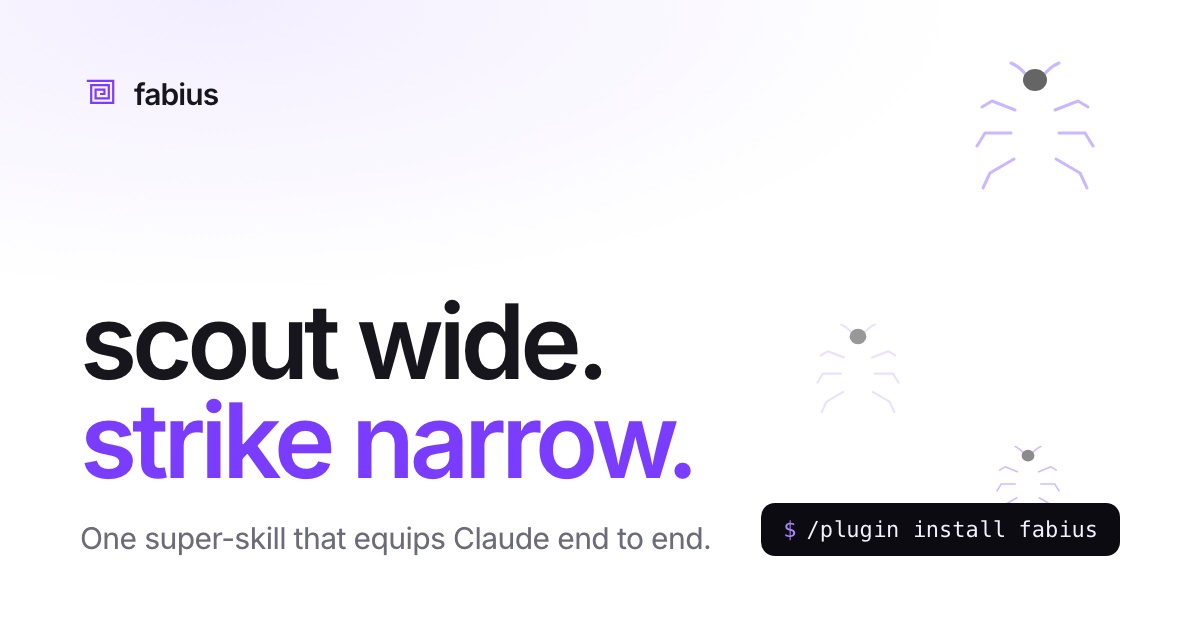
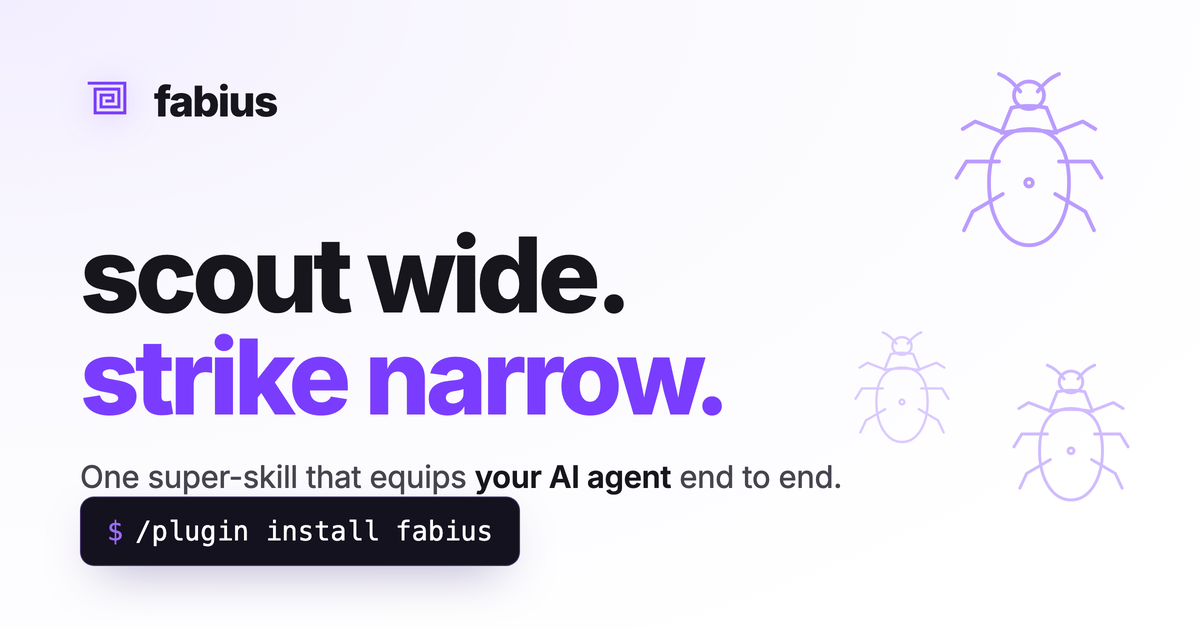
Full-potential polish (vetted audit): defer swarm build, gate video-glow blur to playing, 44px copy targets, FAQ hover + 09 numbering, persistent mobile Install CTA, active-nav background parity, model-agnostic og.png, GSC placeholder

diff --git a/main.js b/main.js
@@ -173,9 +173,7 @@
     { lane: 34, size: 16, dur: 2.7, delay: -4, op: .18, dir: -1, bob: .4 },
     { lane: 80, size: 14, dur: 2.3, delay: -1, op: .16, dir: 1,  bob: .36 },
   ];
-  buildWalkers($('#swarm'), small ? heroWalk.filter((_, i) => i < 9) : heroWalk);
-  // dark "core" band — same two-tier idea, brighter on black
-  buildWalkers($('#coreWalk'), [
+  const coreWalk = [
     { lane: 20, size: 84, dur: 28, delay: -6, op: .82, dir: 1,  bob: 1.8, leg: .72, color: '#b491ff' },
     { lane: 68, size: 52, dur: 21, delay: -11, op: .66, dir: -1, bob: 1.5, leg: .6,  color: '#8a5cff' },
     { lane: 44, size: 20, dur: 3.6, delay: -2, op: .6,  dir: 1,  bob: .46, color: '#c9b6ff' },
@@ -185,7 +183,14 @@
     { lane: 78, size: 18, dur: 3.2, delay: -2, op: .5,  dir: 1,  bob: .44, color: '#9b6bff' },
     { lane: 14, size: 16, dur: 2.6, delay: -1, op: .52, dir: -1, bob: .4,  color: '#b491ff' },
     { lane: 50, size: 14, dur: 2.3, delay: -3, op: .48, dir: 1,  bob: .36, color: '#c9b6ff' },
-  ].filter((_, i) => small ? i < 5 : true));
+  ].filter((_, i) => small ? i < 5 : true);
+  // defer the decorative swarm DOM build off the critical path → smoother first paint / input
+  const buildSwarms = () => {
+    buildWalkers($('#swarm'), small ? heroWalk.filter((_, i) => i < 9) : heroWalk);
+    buildWalkers($('#coreWalk'), coreWalk);
+  };
+  if ('requestIdleCallback' in window) requestIdleCallback(buildSwarms, { timeout: 700 });
+  else setTimeout(buildSwarms, 150);
 
   /* ── active section in nav ──────────────────────────────── */
   const links = $$('.nav-links a');

diff --git a/styles.css b/styles.css
@@ -107,7 +107,7 @@ img{display:block;max-width:100%}
 .nav-links{display:flex;gap:4px;margin-inline:auto}
 .nav-links a{color:var(--ink-2);font-size:14.5px;font-weight:480;padding:10px 12px;border-radius:9px;transition:color .15s,background .15s}
 .nav-links a:hover{color:var(--ink);background:var(--canvas-alt)}
-.nav-links a[aria-current]{color:var(--primary-ink);font-weight:600}
+.nav-links a[aria-current]{color:var(--primary-ink);font-weight:600;background:var(--tint)}
 .nav-cta{display:flex;align-items:center;gap:10px}
 .nav-cta .btn{padding:9px 17px;font-size:14px}
 .nav-toggle{display:none;width:42px;height:42px;border:1px solid var(--hairline-2);border-radius:11px;background:#fff;cursor:pointer;flex-direction:column;align-items:center;justify-content:center;gap:5px}
@@ -138,7 +138,7 @@ img{display:block;max-width:100%}
 .hero-cmd code{color:#f3f1fb}
 .hero-cmd .muted{color:#8b86a8;margin-right:4px}
 .copy{font-family:var(--sans);font-size:13px;font-weight:540;color:#fff;background:rgba(255,255,255,.12);
-  border:1px solid rgba(255,255,255,.16);border-radius:9px;padding:9px 14px;cursor:pointer;transition:background .15s,transform .15s var(--ease)}
+  border:1px solid rgba(255,255,255,.16);border-radius:9px;padding:13px 16px;cursor:pointer;transition:background .15s,transform .15s var(--ease)}
 .copy:hover{background:rgba(255,255,255,.2)}
 .copy:active{transform:scale(.95)}
 .copy.done{background:var(--primary);border-color:var(--primary)}
@@ -185,7 +185,7 @@ img{display:block;max-width:100%}
 .demo-head{max-width:720px;margin-inline:auto;margin-bottom:44px;text-align:center}
 .demo-emblem{width:56px;height:56px;color:var(--primary);display:block;margin:0 auto 24px}
 .demo-frame{position:relative;max-width:980px;margin-inline:auto;aspect-ratio:16/9;border-radius:var(--r-l);overflow:hidden;background:var(--canvas-ink);border:1px solid var(--hairline);box-shadow:var(--shadow);isolation:isolate}
-.demo-frame::before{content:"";position:absolute;inset:-3px;z-index:-1;background:radial-gradient(58% 58% at 50% 38%,rgba(123,61,255,.30),transparent 70%);filter:blur(40px)}
+.demo-frame.playing::before{content:"";position:absolute;inset:-3px;z-index:-1;background:radial-gradient(58% 58% at 50% 38%,rgba(123,61,255,.30),transparent 70%);filter:blur(40px)}
 .demo-video{width:100%;height:100%;object-fit:cover;display:block;cursor:pointer}
 .demo-toggle{position:absolute;left:50%;top:50%;transform:translate(-50%,-50%);width:84px;height:84px;border-radius:50%;border:1px solid rgba(255,255,255,.30);background:rgba(18,14,28,.46);backdrop-filter:blur(8px);-webkit-backdrop-filter:blur(8px);color:#fff;display:grid;place-items:center;cursor:pointer;opacity:0;pointer-events:none;transition:opacity .3s var(--ease),background .2s var(--ease)}
 .demo-frame.show-controls .demo-toggle{opacity:1;pointer-events:auto}
@@ -448,6 +448,7 @@ img{display:block;max-width:100%}
 .faq-item[open]{border-color:var(--hairline-2);background:var(--canvas-alt)}
 .faq-item summary{cursor:pointer;list-style:none;position:relative;padding:20px 56px 20px 24px;font-size:clamp(16px,1.9vw,18px);font-weight:560;color:var(--ink)}
 .faq-item summary::-webkit-details-marker{display:none}
+.faq-item summary:hover{background:var(--canvas-alt);color:var(--primary-ink)}
 .faq-item summary::after{content:"+";position:absolute;right:24px;top:50%;transform:translateY(-50%);font-size:24px;font-weight:400;line-height:1;color:var(--primary)}
 .faq-item[open] summary::after{content:"−"}
 .faq-item summary:focus-visible{outline:2px solid var(--primary);outline-offset:-2px;border-radius:var(--r-m)}
@@ -495,8 +496,10 @@ img{display:block;max-width:100%}
 /* ── responsive ──────────────────────────────────────────── */
 @media (max-width:900px){
   .nav-links{display:none}
-  .nav-cta{display:none}
-  .nav-toggle{display:flex;margin-inline-start:auto}
+  .nav-cta{display:flex;margin-inline-start:auto;gap:8px}
+  .nav-cta .btn.ghost{display:none}
+  .nav-cta .btn.primary{padding:9px 16px;font-size:13.5px}
+  .nav-toggle{display:flex;margin-inline-start:10px}
   .nav.open{background:#fff;backdrop-filter:none;border-bottom-color:var(--hairline)}
   .nav.open .mobile-menu{display:flex}
   .research-in{grid-template-columns:1fr;gap:36px}

diff --git a/index.html b/index.html
@@ -8,6 +8,7 @@
 <meta name="theme-color" content="#ffffff" />
 <meta name="robots" content="index, follow, max-image-preview:large, max-snippet:-1" />
 <meta name="author" content="Ariel Shemesh" />
+<!-- Google Search Console: paste your verification tag here → <meta name="google-site-verification" content="YOUR_TOKEN" /> (then submit /sitemap.xml in GSC) -->
 <link rel="canonical" href="https://fabius-landing.vercel.app/" />
 <link rel="icon" href="/favicon.svg" type="image/svg+xml" />
 <link rel="apple-touch-icon" href="/assets/icon-180.png" />
@@ -38,14 +39,14 @@
 <!-- TODO: add <meta name="twitter:site" content="@handle"> + twitter:creator once the X/Twitter handle is confirmed -->
 
 <link rel="preload" href="/assets/inter.woff2" as="font" type="font/woff2" crossorigin />
-<link rel="stylesheet" href="/styles.css?v=2026-06-25b" />
+<link rel="stylesheet" href="/styles.css?v=2026-06-25c" />
 <script type="application/ld+json">
 {"@context":"https://schema.org","@type":"SoftwareApplication","name":"fabius","applicationCategory":"DeveloperApplication","operatingSystem":"Cross-platform","alternateName":"fabius super-skill","description":"One super-skill that equips any LLM agent end-to-end — code, prose, agents, design, debug, memory — under a single Fabian stance: scout wide, strike narrow. Plain-markdown, so model- and tool-agnostic (Claude, GPT, Gemini, Grok, Mistral).","image":"https://fabius-landing.vercel.app/assets/og.png","keywords":"Claude Code plugin, AI agent super-skill, LLM agent skill, scope control, AGENTS.md, model-agnostic","featureList":"router, lean core, process, design and data-viz, agent orchestration, persistent memory, marketing, defensive security, game craft","softwareHelp":"https://github.com/ArielShemesh1999/fabius","isAccessibleForFree":true,"offers":{"@type":"Offer","price":"0","priceCurrency":"USD"},"license":"https://opensource.org/licenses/MIT","author":{"@type":"Person","name":"Ariel Shemesh","url":"https://github.com/ArielShemesh1999"},"sameAs":["https://github.com/ArielShemesh1999/fabius"],"url":"https://fabius-landing.vercel.app/"}
 </script>
 <script type="application/ld+json">
 {"@context":"https://schema.org","@type":"FAQPage","mainEntity":[{"@type":"Question","name":"What is fabius?","acceptedAnswer":{"@type":"Answer","text":"A Claude Code plugin — one super-skill that equips an LLM agent end to end: code, prose, agents, design, debugging, memory, marketing, defensive security and game craft. Nine coordinated, non-overlapping skills installed as one plugin, under one stance: scout wide, strike narrow."}},{"@type":"Question","name":"How do I install fabius?","acceptedAnswer":{"@type":"Answer","text":"In Claude Code, run /plugin marketplace add ArielShemesh1999/fabius, then /plugin install fabius. Zero build, zero config. Start any task with the fabius skill; stop fabius reverts the stance at any time."}},{"@type":"Question","name":"Which models and tools does it work with?","acceptedAnswer":{"@type":"Answer","text":"fabius is plain markdown, so it is model- and tool-agnostic. It runs natively in Claude Code as a plugin, and on Codex, Cursor, Windsurf, Cline, Copilot and Gemini via a single AGENTS.md bridge. Its blind benchmark covers Claude, GPT, Grok and Mistral."}},{"@type":"Question","name":"Is fabius free and open source?","acceptedAnswer":{"@type":"Answer","text":"Yes. fabius is MIT licensed and fully open source on GitHub. No paid tier, no account."}},{"@type":"Question","name":"Does it make the model smarter?","acceptedAnswer":{"@type":"Answer","text":"No — it is a scope-control system, not a capability boost. In a blind three-arm eval it beat a generic “be concise” control on every Claude tier (Opus 13.88, Sonnet 12.5, Haiku 10.38 out of 15) while cutting output 32–52%. Honest framing: structure beats brevity — not smarter, not 10× on everything."}},{"@type":"Question","name":"How is it different from telling the model to “be concise”?","acceptedAnswer":{"@type":"Answer","text":"That is exactly the control it was tested against — and it wins. fabius is structure, not brevity: a scope-control system that knows when to compress and when to expand. Method and caveats are in BENCHMARKS.md."}}]}
 </script>
-<script defer src="/main.js?v=2026-06-25b"></script>
+<script defer src="/main.js?v=2026-06-25c"></script>
 </head>
 <body>
 
@@ -451,7 +452,7 @@
 <section class="faq" id="faq">
   <div class="wrap">
     <header class="sec-head">
-      <p class="eyebrow-text"><span class="eb-n">08</span>Questions</p>
+      <p class="eyebrow-text"><span class="eb-n">09</span>Questions</p>
       <h2 class="sec-title">Frequently asked.</h2>
     </header>
     <div class="faq-list">